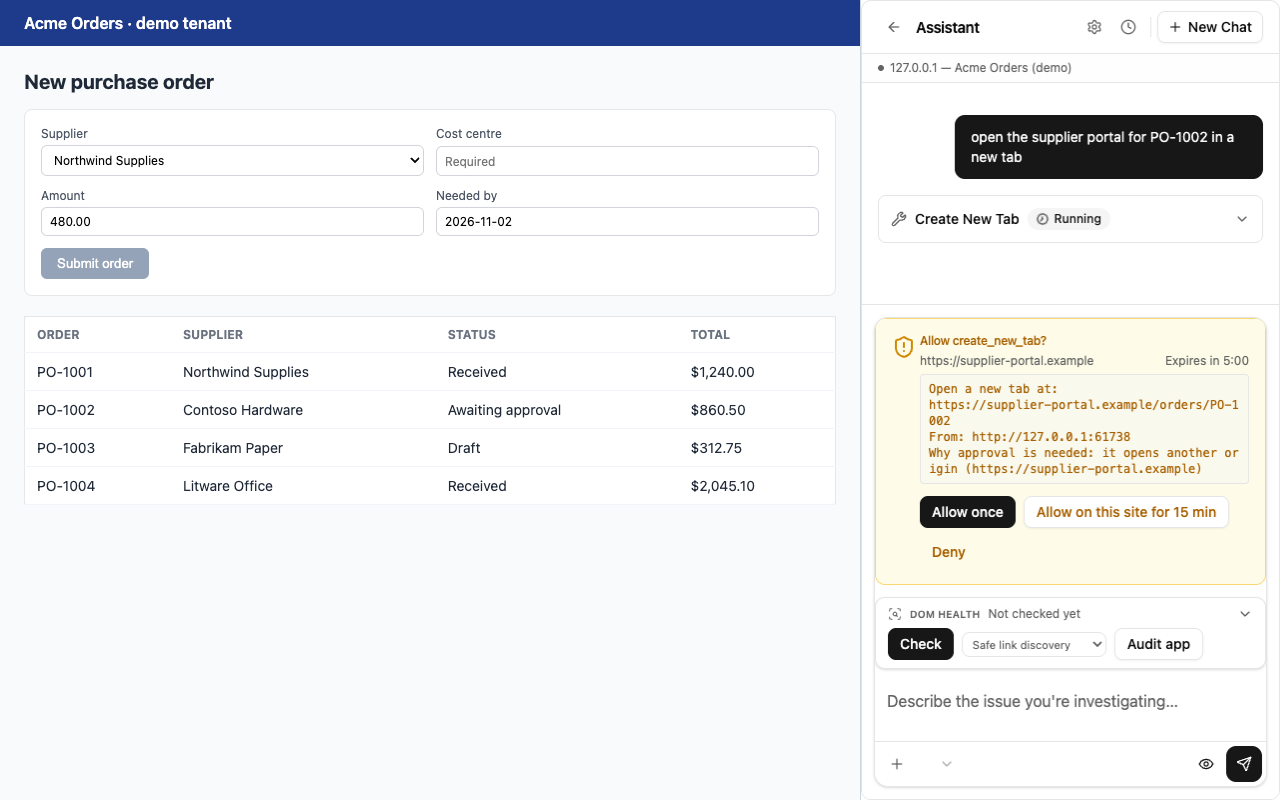
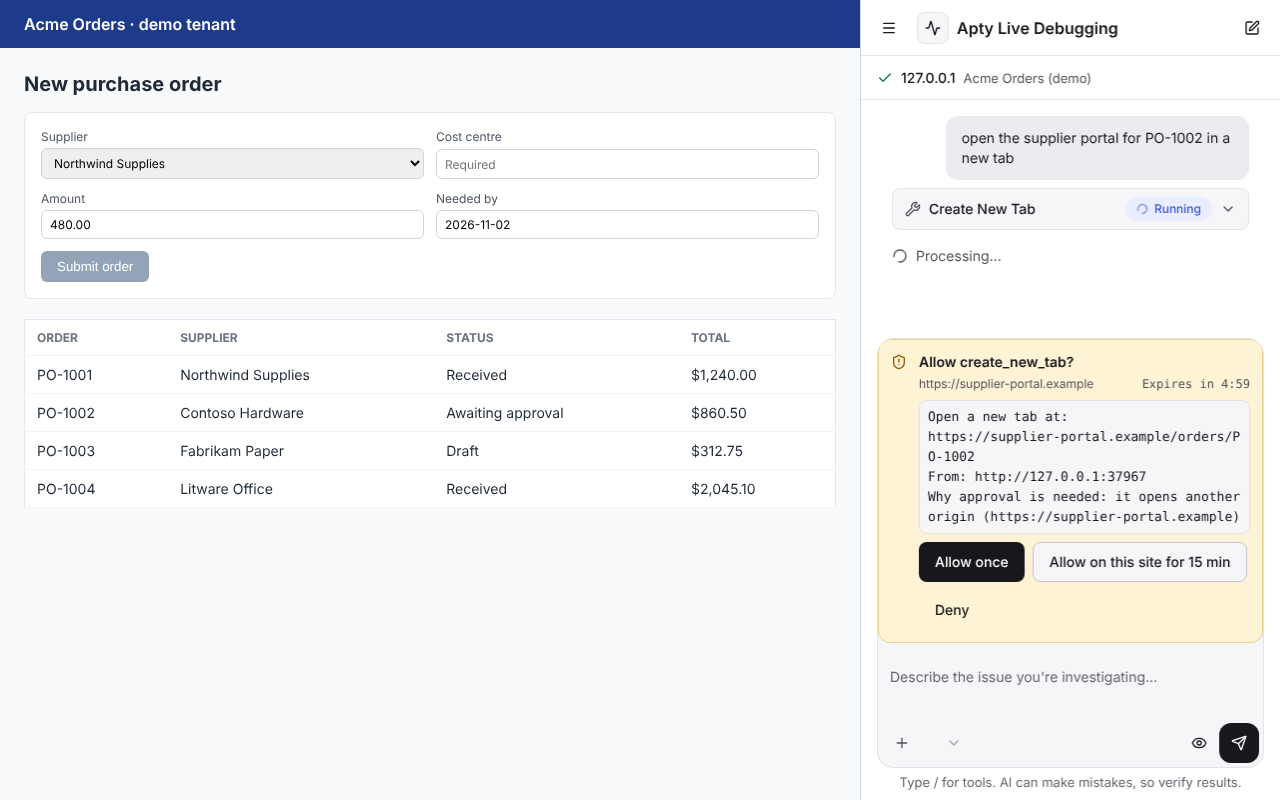
docs: close out the UI redesign (WP12.3)
- CHANGELOG: the one UI redesign entry is no longer "in progress" and
  ends with WP12.
- ARCHITECTURE.md: the summary bar is a row that expands into one
  stacked panel, no longer four tabs; the confidence weights.
- STATUS.md: what the accessibility e2e covers now, and the keyboard run.
- The five Web Store screenshots, taken again headless from this build
  (node tooling/e2e/screenshot-harness.mjs --store).

Checked with git grep and still true: "Audit Application" in
ARCHITECTURE.md and dom-config.md names the audit, not a control;
"CONFIRMED/LIKELY/..." there are the system prompt's levels. No current
doc names "Conversation History", "Generate DOM config", "Check DOM
Health" or "Capture by hand".

Claude-Session: https://claude.ai/code/session_01EwsUd7vkSzXnqeYt9wDTVq

diff --git a/CHANGELOG.md b/CHANGELOG.md
@@ -6,7 +6,7 @@ full commit-level history.
 
 ## Unreleased
 
-- **UI redesign (in progress, one PR)**: the side panel and Options page move to one design system. So far (WP1): the design's 18 colours are `--ds-*` tokens in both themes, and the semantic variables (background, card, primary, muted, border, input, ring, info, success, warning, destructive and new muted tints) point at them; a unit test keeps every text, control-border and status colour at its WCAG contrast. Inter 600 is bundled; monospace is the system stack; the type scale adds `text-small`, `text-title`, `text-display` and `text-score`; cards are 12 px round and dialogs 16 px. Button (40/44/32 px; new `primary` and `danger`), Badge (tone pills and `StatusBadge`, always an icon, dot or spinner plus the word), Alert, Input, Select, Textarea and Dialog are re-skinned on the tokens; Notice, OptionCard, ListRow, ProgressBar, ScoreRing, EmptyState and Skeleton are new. Dialogs now return focus to the button that opened them. `npm run audit:design-tokens` (a CI step, so `ci:local` has 24) fails on a hard-coded palette colour, hex or rgb literal, arbitrary or large text size, bold weight, uppercase or letter-spacing; WP2 took every one of those to zero in the side panel, Options and `@apty/ui` (the content script's host-page overlay, fake mouse and capture outline and the toolbar badge colour are exempt, as Chrome or the host page draws them). Section captions read in sentence case, and six Title Case labels became sentence case ("DOM health", "DOM config", "Automatic selection breakdown", "Manual selector dependency", "Cross-state selector replay"). Bold text is weight 600 and Inter 700 is no longer bundled. The syntax-highlighted code block gets its theme background again (its `hsl(var(...))` colours were invalid). Deleted, as the extension never renders them: `@apty/ui`'s default welcome screen with its UX-audit dialog, `LoginPrompt`, `ModelChangePrompt`, `UpdateBanner`, `ModeIndicator`, `ConfigurationGuide`, the chat theme presets and the compact and minimal tool displays. WP3: the side panel header is a Menu button, the app mark, the title "Apty Live Debugging" and a New chat icon; New chat asks before it stops a running reply, saves the chat at once and then clears it, and Alt+Left does the same (or goes back from a page). The menu is a drawer from the left (Esc closes it and focus returns to Menu) with New chat, the tools (DOM health, DOM config, Selector checker, Network inspector), the five most recent chats with their time and a delete action, View all, Connections and Settings; it replaces the header's settings and history buttons. A bar under the header names the page being inspected and whether it can be. DOM health and DOM config are full-panel pages with Back instead of cards above the composer, and the chat under an open page is inert. Home asks "What are we debugging?" with three investigations; See all adds the other two and DOM config. Typing / in the composer lists the tools, the investigations and the skills, filtered as you type and chosen with the arrows and Enter. `@apty/ui`'s Suggestion and ScrollArea components, which nothing used any more, and the `@radix-ui/react-scroll-area` dependency are removed. WP4: a "N to set up" badge in the bar under the header and on the menu's Connections row counts only what blocks: no AI provider, a configured Apty Client or Studio that does not answer, or a page the extension cannot inspect (a Client or Studio that was never set up is not counted), and hides at zero. The Connections page (from the menu or the badge) shows the AI provider, the Apty Client and Apty Studio, and whether this site can be inspected. Each peer has its status, an extension ID field checked with the existing rule, this panel's own ID to copy into the peer's allow-list, and a Connect button that checks and saves the ID the same way Options does. With no provider configured, the composer's model selector is a "Set up AI provider" chip, and a message sent anyway still shows, unsent, in a warning notice with Set up and Dismiss. The readiness pills on Home are removed. WP5: DOM health's checks run in a store outside the card, so leaving its page never cancels one, and the application audit can be stopped between pages, keeping what it reached, marked as stopped (`runApplicationDomHealthAudit` takes an `AbortSignal`; the Stop button comes with the DOM health page). The menu's DOM health and DOM config rows show their status: Not checked, the page while auditing, "61 · Fair" or Couldn't finish; Not generated, "Page 4 of 20" while capturing, Not exported, Exported or Couldn't finish. DOM config counts its results as exported only after Copy all or an export, until new results arrive. While a check or a capture runs, a bar under the header shows the tool, its progress and the elapsed time, with View. Grades read in sentence case ("Needs attention"), and the investigation, component and hypothesis status labels are translated (en and zh). WP6: DOM health is a page instead of a card. Before a check it asks what to check (this page or the whole application) and how to discover links, and offers "Check this page" or "Audit application". While it checks, it says to keep the tab open and, for the whole application only, offers "Stop check". The result shows the score in a ring with "out of 100", the grade and confidence, when and what was checked, and a coverage bar with the states or elements reached; when the score may still change, a note says to treat it as a first read. "Full breakdown" holds everything the card showed (metrics, risks, frames and exclusions, the DES steps, the per-page table and, with developer tools, the route probe); "Settings" holds what to check, link discovery and the threshold overrides in effect; the download icon is "Export validation bundle". "Ask about this result" starts a new chat the way New chat does (asking before it stops a running reply, and saving first), with an editable question in the composer and the validation bundle as a removable chip; nothing is sent until Send. `@apty/ui`'s `onNewChat` takes an optional draft (`ChatDraft`: text and chips) for this. The breakdown's labels read in sentence case, and the card and its 25 strings are removed. WP7: DOM config is a page instead of a card. Setup offers the scope as cards (safe whole-application capture marked Recommended), what it proposes, and "Advanced options" summarized from the current values (runs per page, page and time limits, the behavior probe); "Or capture by hand" opens Capture current state and Import runs. The scope's notice, the deep-mode confirmation and the question before replacing pages captured by hand stay. While it runs, the page shows "Capturing page 4 of 20" (kept between pages, which also fixes the job bar and menu, and their count, which was one ahead), the path, what it is doing now, the run and the time against the limit, the pages captured so far and "Stop capture". The results say whether they were exported, sum up the capture (pages, runs each, time, scope) and list the proposed settings and the details (Pages, Iframes, Coverage, Warnings), each opening the view the card's tabs held; "Export results" offers Markdown, JSON and Copy all, and "Run again" opens setup. "Ask about these" starts a new chat with the Markdown export, redacted as a tool result, as a removable chip; nothing is sent until Send. WP8: a failed answer is an error notice in the chat, after whatever had streamed: "Couldn't get an answer", one sentence for the cause (a refused key, a rate limit and when to retry, offline, an unreachable provider, an endpoint or model not found, a model without tool calling, a conversation too long for the model, a timeout, a cancelled request, the step limit, or anything else), the provider's message under Details with any key it echoed masked, Retry, and "Open AI provider settings" when that setting can fix it. A reopened chat keeps the notice, and Send stays Send after an error. Tool calls are cards with a status badge (pending, running, needs approval, approved, completed, error, denied) that open to their parameters and result in scrollable mono blocks, each with Copy. The user's words sit in a quiet bubble with their chips and attachments under it; answers keep headings small, indent lists, and scroll wide tables and code blocks inside the message (a wide table used to push the whole chat sideways). Every answer has compact Copy (and, on the last, Save as skill and Retry) with tooltips, and Copy shows a check for 1.5 s. While a turn runs, "Processing..." follows the last message and messages sent meanwhile show as "N queued" beside the composer. The approval prompt is a warning card with a mono countdown and its summary in a scrolling block, and several requests stack in a column capped at half the panel. The selection and monitor intervention cards are rebuilt from the design's cards, option cards (real radios and checkboxes) and notices, and the redaction-off banner is a warning notice. Deleted, as nothing rendered them: the intervention mode toggle, `@apty/ui`'s avatar (with the `@radix-ui/react-avatar` dependency) and the old loader. H1: the accessibility e2e file (402 s) and the DOM health application e2e file (161 s) are split by surface, and the accessibility one by theme too, so each file runs in its own browser well under the 180 s limit. WP9: the investigation summary above the composer is one 44 px row (its status with a dot or a spinner, "n of m steps" from the real plan, the diagnosis confidence and Expand) that opens to the plan, the components, the timeline and the diagnosis stacked in one panel, sized so the Send button and 96 px of the chat stay in view (also under the taller live-investigation banner); Esc closes it and returns to Expand. The confidence badges keep their weights (solid confirmed, tinted likely, outlined possible, dashed unknown, each with its icon) and read in sentence case. The plan is a numbered checklist whose state each row names for screen readers, with "1 of 8 steps done" and no progress bar. The timeline is a line of clusters, each with its time, its sources' icons (in place of emoji) and one "View details" holding its evidence, failures marked with an icon and a word; "Likely related incident" is an info badge, still only when the correlation says so. Component health is two rows with a status badge each and the probes under them. The selector analysis shows the recommended selector in mono with Copy, a three-segment meter with its word (never a number) and the live match count, other candidates as compact rows, and an iframe or Shadow DOM boundary as a notice. JSON keys, strings, numbers and nulls each have their own colour. `@apty/ui`'s code block, which nothing rendered any more, is removed with its `react-syntax-highlighter` dependency. WP10: deleting a chat from the menu asks first ("Delete this chat?", the title quoted up to 60 characters, Cancel focused); deleting the open chat still starts a new one. A chat records the hostname of the http(s) page it was first saved on (`siteHost`, never the URL; none for other pages or older chats), shown in the menu as an initial and the host beside the time. The recent chats show three placeholder rows while they load, "No conversation history" when there are none, and "Couldn't load recent chats." with Retry when the store can't be read (`getAllConversations` now rejects instead of returning nothing). On a page the extension can't inspect, DOM health (which said nothing before) and DOM config open with a warning notice giving the reason and the fix, and their start buttons are disabled and point at it; the bar says "This page" when the page has no hostname. A failed DOM health check offers "Check again". The panel shows its header, bar and Home in placeholder blocks while settings load, never a bare "Loading...". The error screen is a centred empty state with "Try again" (it resets the screen, as before) and Details showing only the error's message, with any key in it masked. The confirmations (stop investigation, turn redaction off, replace a skill, delete a file, delete stored data, revoke all approvals) share one `ConfirmDialog`: title and description, Cancel first with the initial focus, the danger action last, and no closing while a request runs; the export review is the wide size and the skill and file previews the preview size. WP11: Options has a header with the app mark, "Apty Live Debugging" and the "Settings" title, 44 px underline tabs named "General", "AI", "Skills" and "Connection" that stay at the top while the page scrolls and scroll sideways when they don't fit, and one 720 px column with 16 px between cards. Cards are 12 px round with 16 px padding (24 from 640 px up); switch rows put the label left and the switch right from 640 px up; keys, URLs and model IDs are mono. The save message is a notice (a status, or an alert for an error) with a named dismiss button, and its slide-in stops under reduced motion. Status badges in the MCP bridge and Apty Client cards carry an icon or spinner as well as the word. Deleting stored data, revoking all approvals and deleting a skill open a confirmation (a skill used the browser's own confirm box). Both themes follow the saved setting, and the page applies the theme it last showed before the setting loads, so it no longer flashes light.
+- **UI redesign (one PR)**: the side panel and Options page move to one design system. WP1: the design's 18 colours are `--ds-*` tokens in both themes, and the semantic variables (background, card, primary, muted, border, input, ring, info, success, warning, destructive and new muted tints) point at them; a unit test keeps every text, control-border and status colour at its WCAG contrast. Inter 600 is bundled; monospace is the system stack; the type scale adds `text-small`, `text-title`, `text-display` and `text-score`; cards are 12 px round and dialogs 16 px. Button (40/44/32 px; new `primary` and `danger`), Badge (tone pills and `StatusBadge`, always an icon, dot or spinner plus the word), Alert, Input, Select, Textarea and Dialog are re-skinned on the tokens; Notice, OptionCard, ListRow, ProgressBar, ScoreRing, EmptyState and Skeleton are new. Dialogs now return focus to the button that opened them. `npm run audit:design-tokens` (a CI step, so `ci:local` has 24) fails on a hard-coded palette colour, hex or rgb literal, arbitrary or large text size, bold weight, uppercase or letter-spacing; WP2 took every one of those to zero in the side panel, Options and `@apty/ui` (the content script's host-page overlay, fake mouse and capture outline and the toolbar badge colour are exempt, as Chrome or the host page draws them). Section captions read in sentence case, and six Title Case labels became sentence case ("DOM health", "DOM config", "Automatic selection breakdown", "Manual selector dependency", "Cross-state selector replay"). Bold text is weight 600 and Inter 700 is no longer bundled. The syntax-highlighted code block gets its theme background again (its `hsl(var(...))` colours were invalid). Deleted, as the extension never renders them: `@apty/ui`'s default welcome screen with its UX-audit dialog, `LoginPrompt`, `ModelChangePrompt`, `UpdateBanner`, `ModeIndicator`, `ConfigurationGuide`, the chat theme presets and the compact and minimal tool displays. WP3: the side panel header is a Menu button, the app mark, the title "Apty Live Debugging" and a New chat icon; New chat asks before it stops a running reply, saves the chat at once and then clears it, and Alt+Left does the same (or goes back from a page). The menu is a drawer from the left (Esc closes it and focus returns to Menu) with New chat, the tools (DOM health, DOM config, Selector checker, Network inspector), the five most recent chats with their time and a delete action, View all, Connections and Settings; it replaces the header's settings and history buttons. A bar under the header names the page being inspected and whether it can be. DOM health and DOM config are full-panel pages with Back instead of cards above the composer, and the chat under an open page is inert. Home asks "What are we debugging?" with three investigations; See all adds the other two and DOM config. Typing / in the composer lists the tools, the investigations and the skills, filtered as you type and chosen with the arrows and Enter. `@apty/ui`'s Suggestion and ScrollArea components, which nothing used any more, and the `@radix-ui/react-scroll-area` dependency are removed. WP4: a "N to set up" badge in the bar under the header and on the menu's Connections row counts only what blocks: no AI provider, a configured Apty Client or Studio that does not answer, or a page the extension cannot inspect (a Client or Studio that was never set up is not counted), and hides at zero. The Connections page (from the menu or the badge) shows the AI provider, the Apty Client and Apty Studio, and whether this site can be inspected. Each peer has its status, an extension ID field checked with the existing rule, this panel's own ID to copy into the peer's allow-list, and a Connect button that checks and saves the ID the same way Options does. With no provider configured, the composer's model selector is a "Set up AI provider" chip, and a message sent anyway still shows, unsent, in a warning notice with Set up and Dismiss. The readiness pills on Home are removed. WP5: DOM health's checks run in a store outside the card, so leaving its page never cancels one, and the application audit can be stopped between pages, keeping what it reached, marked as stopped (`runApplicationDomHealthAudit` takes an `AbortSignal`; the Stop button comes with the DOM health page). The menu's DOM health and DOM config rows show their status: Not checked, the page while auditing, "61 · Fair" or Couldn't finish; Not generated, "Page 4 of 20" while capturing, Not exported, Exported or Couldn't finish. DOM config counts its results as exported only after Copy all or an export, until new results arrive. While a check or a capture runs, a bar under the header shows the tool, its progress and the elapsed time, with View. Grades read in sentence case ("Needs attention"), and the investigation, component and hypothesis status labels are translated (en and zh). WP6: DOM health is a page instead of a card. Before a check it asks what to check (this page or the whole application) and how to discover links, and offers "Check this page" or "Audit application". While it checks, it says to keep the tab open and, for the whole application only, offers "Stop check". The result shows the score in a ring with "out of 100", the grade and confidence, when and what was checked, and a coverage bar with the states or elements reached; when the score may still change, a note says to treat it as a first read. "Full breakdown" holds everything the card showed (metrics, risks, frames and exclusions, the DES steps, the per-page table and, with developer tools, the route probe); "Settings" holds what to check, link discovery and the threshold overrides in effect; the download icon is "Export validation bundle". "Ask about this result" starts a new chat the way New chat does (asking before it stops a running reply, and saving first), with an editable question in the composer and the validation bundle as a removable chip; nothing is sent until Send. `@apty/ui`'s `onNewChat` takes an optional draft (`ChatDraft`: text and chips) for this. The breakdown's labels read in sentence case, and the card and its 25 strings are removed. WP7: DOM config is a page instead of a card. Setup offers the scope as cards (safe whole-application capture marked Recommended), what it proposes, and "Advanced options" summarized from the current values (runs per page, page and time limits, the behavior probe); "Or capture by hand" opens Capture current state and Import runs. The scope's notice, the deep-mode confirmation and the question before replacing pages captured by hand stay. While it runs, the page shows "Capturing page 4 of 20" (kept between pages, which also fixes the job bar and menu, and their count, which was one ahead), the path, what it is doing now, the run and the time against the limit, the pages captured so far and "Stop capture". The results say whether they were exported, sum up the capture (pages, runs each, time, scope) and list the proposed settings and the details (Pages, Iframes, Coverage, Warnings), each opening the view the card's tabs held; "Export results" offers Markdown, JSON and Copy all, and "Run again" opens setup. "Ask about these" starts a new chat with the Markdown export, redacted as a tool result, as a removable chip; nothing is sent until Send. WP8: a failed answer is an error notice in the chat, after whatever had streamed: "Couldn't get an answer", one sentence for the cause (a refused key, a rate limit and when to retry, offline, an unreachable provider, an endpoint or model not found, a model without tool calling, a conversation too long for the model, a timeout, a cancelled request, the step limit, or anything else), the provider's message under Details with any key it echoed masked, Retry, and "Open AI provider settings" when that setting can fix it. A reopened chat keeps the notice, and Send stays Send after an error. Tool calls are cards with a status badge (pending, running, needs approval, approved, completed, error, denied) that open to their parameters and result in scrollable mono blocks, each with Copy. The user's words sit in a quiet bubble with their chips and attachments under it; answers keep headings small, indent lists, and scroll wide tables and code blocks inside the message (a wide table used to push the whole chat sideways). Every answer has compact Copy (and, on the last, Save as skill and Retry) with tooltips, and Copy shows a check for 1.5 s. While a turn runs, "Processing..." follows the last message and messages sent meanwhile show as "N queued" beside the composer. The approval prompt is a warning card with a mono countdown and its summary in a scrolling block, and several requests stack in a column capped at half the panel. The selection and monitor intervention cards are rebuilt from the design's cards, option cards (real radios and checkboxes) and notices, and the redaction-off banner is a warning notice. Deleted, as nothing rendered them: the intervention mode toggle, `@apty/ui`'s avatar (with the `@radix-ui/react-avatar` dependency) and the old loader. H1: the accessibility e2e file (402 s) and the DOM health application e2e file (161 s) are split by surface, and the accessibility one by theme too, so each file runs in its own browser well under the 180 s limit. WP9: the investigation summary above the composer is one 44 px row (its status with a dot or a spinner, "n of m steps" from the real plan, the diagnosis confidence and Expand) that opens to the plan, the components, the timeline and the diagnosis stacked in one panel, sized so the Send button and 96 px of the chat stay in view (also under the taller live-investigation banner); Esc closes it and returns to Expand. The confidence badges keep their weights (solid confirmed, tinted likely, outlined possible, dashed unknown, each with its icon) and read in sentence case. The plan is a numbered checklist whose state each row names for screen readers, with "1 of 8 steps done" and no progress bar. The timeline is a line of clusters, each with its time, its sources' icons (in place of emoji) and one "View details" holding its evidence, failures marked with an icon and a word; "Likely related incident" is an info badge, still only when the correlation says so. Component health is two rows with a status badge each and the probes under them. The selector analysis shows the recommended selector in mono with Copy, a three-segment meter with its word (never a number) and the live match count, other candidates as compact rows, and an iframe or Shadow DOM boundary as a notice. JSON keys, strings, numbers and nulls each have their own colour. `@apty/ui`'s code block, which nothing rendered any more, is removed with its `react-syntax-highlighter` dependency. WP10: deleting a chat from the menu asks first ("Delete this chat?", the title quoted up to 60 characters, Cancel focused); deleting the open chat still starts a new one. A chat records the hostname of the http(s) page it was first saved on (`siteHost`, never the URL; none for other pages or older chats), shown in the menu as an initial and the host beside the time. The recent chats show three placeholder rows while they load, "No conversation history" when there are none, and "Couldn't load recent chats." with Retry when the store can't be read (`getAllConversations` now rejects instead of returning nothing). On a page the extension can't inspect, DOM health (which said nothing before) and DOM config open with a warning notice giving the reason and the fix, and their start buttons are disabled and point at it; the bar says "This page" when the page has no hostname. A failed DOM health check offers "Check again". The panel shows its header, bar and Home in placeholder blocks while settings load, never a bare "Loading...". The error screen is a centred empty state with "Try again" (it resets the screen, as before) and Details showing only the error's message, with any key in it masked. The confirmations (stop investigation, turn redaction off, replace a skill, delete a file, delete stored data, revoke all approvals) share one `ConfirmDialog`: title and description, Cancel first with the initial focus, the danger action last, and no closing while a request runs; the export review is the wide size and the skill and file previews the preview size. WP11: Options has a header with the app mark, "Apty Live Debugging" and the "Settings" title, 44 px underline tabs named "General", "AI", "Skills" and "Connection" that stay at the top while the page scrolls and scroll sideways when they don't fit, and one 720 px column with 16 px between cards. Cards are 12 px round with 16 px padding (24 from 640 px up); switch rows put the label left and the switch right from 640 px up; keys, URLs and model IDs are mono. The save message is a notice (a status, or an alert for an error) with a named dismiss button, and its slide-in stops under reduced motion. Status badges in the MCP bridge and Apty Client cards carry an icon or spinner as well as the word. Deleting stored data, revoking all approvals and deleting a skill open a confirmation (a skill used the browser's own confirm box). Both themes follow the saved setting, and the page applies the theme it last showed before the setting loads, so it no longer flashes light. WP12: a keyboard-only e2e runs every flow (the menu and a tool, starting and stopping a capture, asking about a result, deleting a chat, the Options tabs) and checks the main controls' names; `npm run audit:design-tokens` no longer reads a baseline file and fails on any hard-coded colour or size; the Web Store screenshots are taken again from this build.
 - **The migration of data written under AIPex names is removed (Part A)**: the extension is at 0.1.0, the Web Store listing does not exist, and the owner confirmed that no build was installed outside Apty developer machines, so there is nothing left to migrate. Removed: the `aipex_*` chrome.storage key renames (at start-up and on first read), the `aipex-conversations-db`, `aipex-screenshots-db`, `aipex-skills-fs` and `AIPexSkills` database moves, the `aipex-sessions` agent-session move and its fallbacks, the one-time import of the upstream's localStorage conversations, `aipex_last_capture_event` in "Delete everything", their tests, the legacy-storage e2e and the branding allow-list entries for those names. A developer machine that still holds data only under the old AIPex names starts empty; one that already ran a build from after R2 keeps its `apty-*` data.
 - **`npm run lint:dependencies` (`knip --strict`) passes and blocks CI (Part B)**: step 23 of CI and `ci:local` now stops the build on a finding, instead of reporting 311. Deleted, as nothing in production reached them: the manual replay controller, the streaming state manager, the panel's old `filterNetworkCalls`, the upstream proxy's `createEmptyToolArgsFinalizer`, the unregistered `take_snapshot` tool with `capSnapshotText`, 12 unused types, constants and aliases, and 37 barrel re-exports nobody imported; the 18 tests that covered only that code went with it. 87 declarations only their own file uses are no longer exported. The 115 exports only tests import are tagged `@internal`, which knip's production mode skips. `react` and `react-dom` are now required peers of `@apty/ui` and `@apty/browser-runtime`, which import them; `ai` is a devDependency of `@apty/ui`, which imports only its types. `services/connection-test.ts` is now `connection-check.ts` and dom-snapshot's `health-hit-test.ts` is `health-hit-testing.ts`, because knip took both for tests. The explicit `any` baseline is 595.
 - **Repo hygiene (C3)**: a script test fails if `CLAUDE.md` stops being the same as `AGENTS.md` (it is a symlink to it). The finished WP3, WP7, WP8 and WP9 specs moved to `docs/archive/tasks/`; `docs/tasks/README.md` says why the rest stay. `knip.json` marks the production entry files, so `npm run lint:dependencies` (`knip --strict`) analyzes the code instead of reporting every dependency unused; what it finds now is real and step 23 stays informational.

diff --git a/ARCHITECTURE.md b/ARCHITECTURE.md
@@ -615,17 +615,20 @@ Key pieces:
   prominent "LIVE INVESTIGATION" banner with a real Stop action (calls
   `stopInvestigation()` directly, plus `interrupt()`) while a session is
   actually in progress.
-- **`investigation-summary-bar.tsx`** — a collapsed-by-default bar in the
-  `promptExtras` slot (just above the input) that expands into four tabs:
+- **`investigation-summary-bar.tsx`** — a collapsed-by-default 44 px row in
+  the `promptExtras` slot (just above the input): the status, the real plan
+  count and the diagnosis confidence. It expands into one scrolling panel,
+  capped so the composer and 96 px of the chat stay in view, that stacks
   Plan (`plan-checklist.tsx`, rendering the investigation's
-  `InvestigationPlan` as a real pending/done/skipped checklist), Timeline
+  `InvestigationPlan` as a real pending/done/skipped checklist), Components
+  (`component-health-panel.tsx`, the two grouped rows described above),
+  Timeline
   (`evidence-timeline.tsx`, rendering `CorrelationCluster[]` exactly as
   computed — the "likely related incident" badge only ever reflects
-  `cluster.likelySameIncident`), Components (`component-health-panel.tsx`,
-  the two grouped rows described above), and Diagnosis
-  (`diagnosis-card.tsx`, confidence badge styled to match CONFIRMED/
-  LIKELY/POSSIBLE/UNKNOWN without ever visually upgrading a lower
-  confidence, structured hypotheses rendered with their status badge).
+  `cluster.likelySameIncident`) and Diagnosis (`diagnosis-card.tsx`, the
+  confidence badge in a visual weight per level, solid for confirmed down
+  to dashed for unknown, never upgrading a lower confidence, structured
+  hypotheses rendered with their status badge).
 - **`debugging-welcome-screen.tsx`** — replaces the generic "how can I help
   you" empty state (`toolDisplay`/`emptyState` slots) with Apty-specific
   example prompts; "See all" adds the rest and a DOM config row that opens

diff --git a/docs/STATUS.md b/docs/STATUS.md
@@ -64,9 +64,12 @@ extension (see [`tooling/e2e/README.md`](../tooling/e2e/README.md)).
   shows a side-panel banner. Every caller goes through
   `runtime/redaction-mode.ts`, and a unit test fails on a direct call.
 
-- Accessibility (C3): axe-core runs on the side panel (empty, approval
-  prompt, tool result, evidence viewers) and every Options tab in light and
-  dark themes and fails on serious or critical violations; none remain
+- Accessibility (C3, UI redesign): axe-core runs on every side panel
+  surface (Home, the menu and its recent chats, Connections, every
+  conversation state, the investigation summary, DOM health, DOM config, a
+  page it can't inspect, boot) and every Options tab at 1280 and 375 px, in
+  light and dark themes, and fails on serious or critical violations; none
+  remain. Every flow also runs by keyboard alone
   ([`accessibility.md`](development/accessibility.md)).
 - Every package has a coverage gate (C5): package-wide ratchets one point
   below the measured value, plus the stricter groups for approvals, sender
